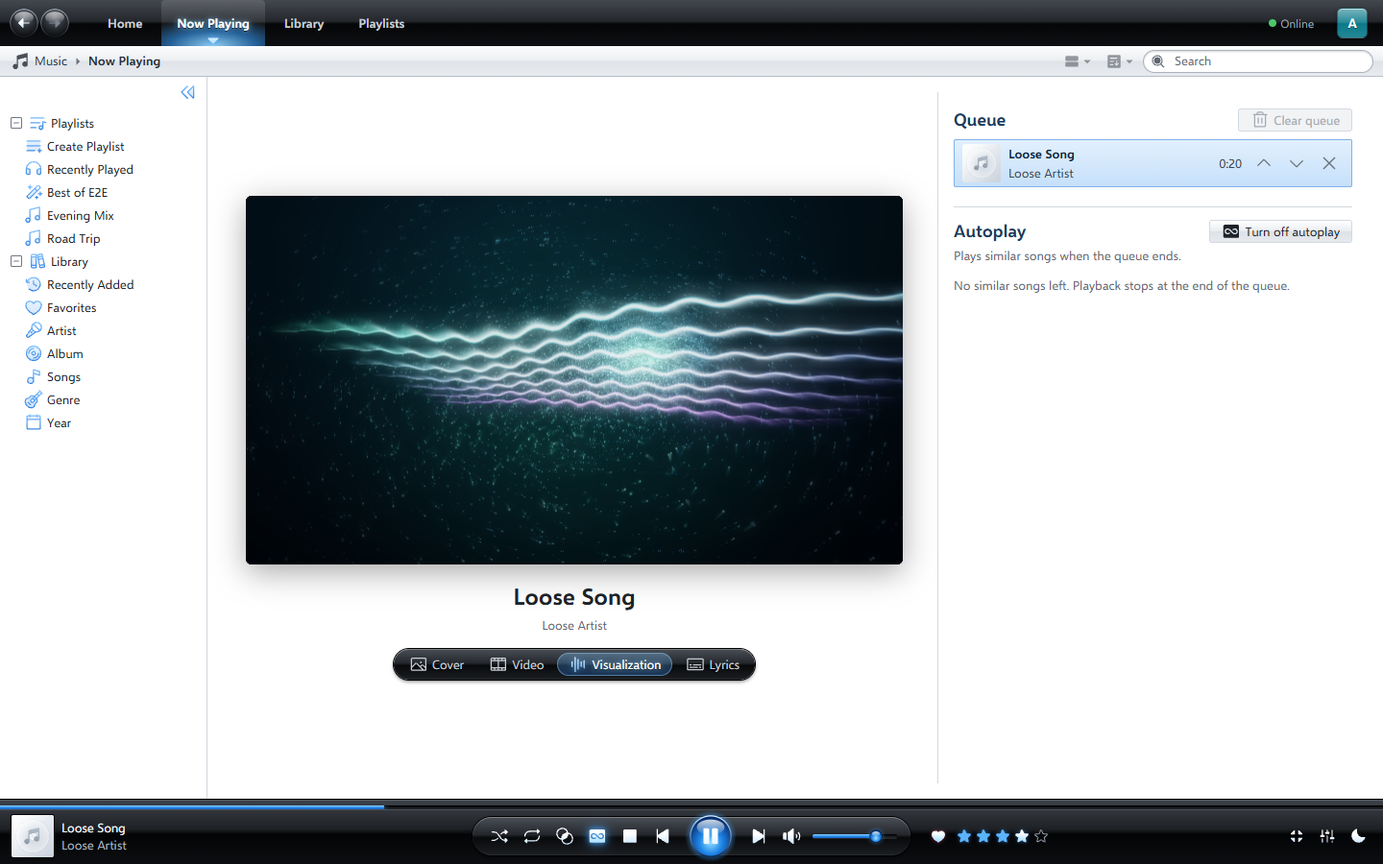
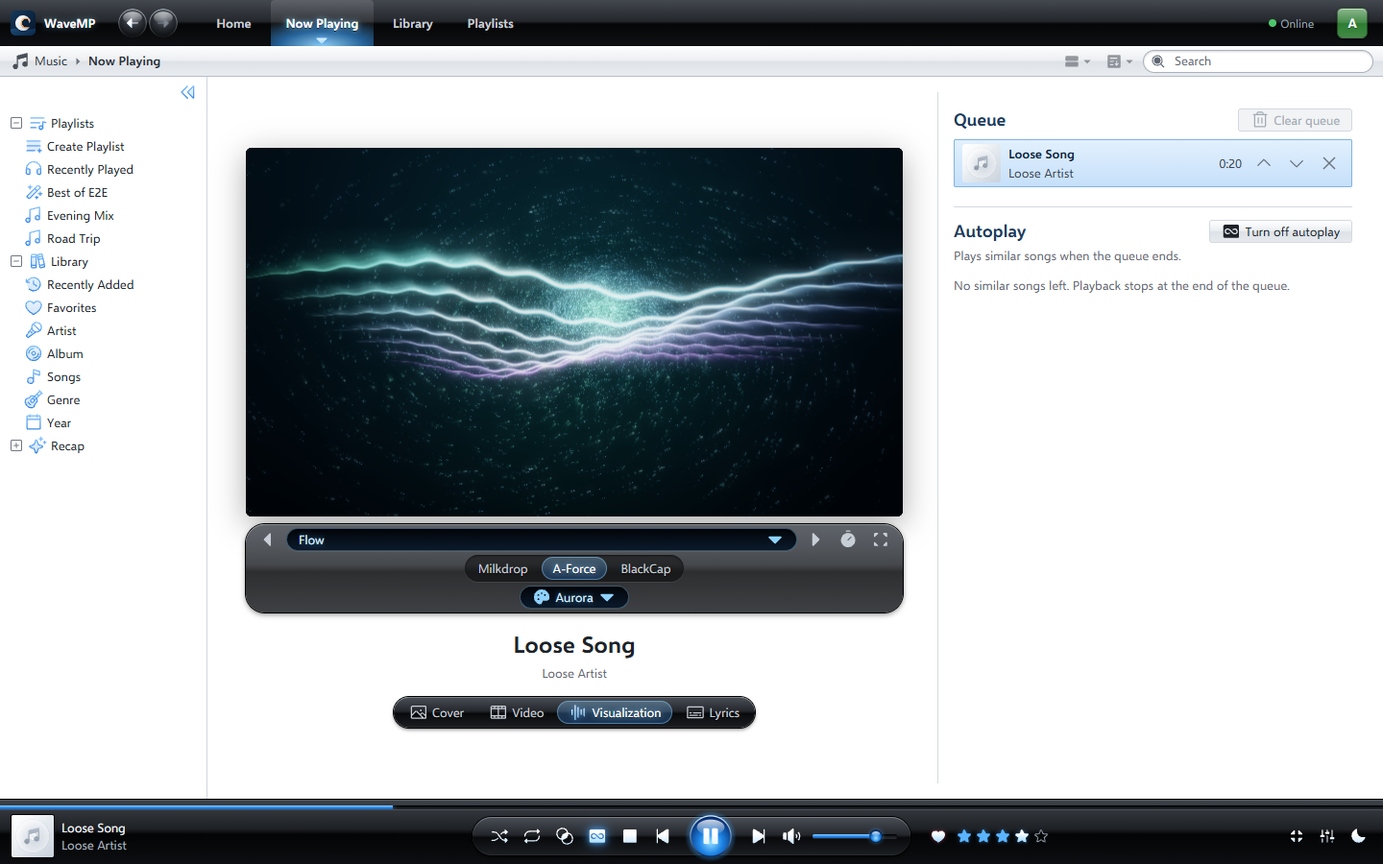
WMP-121: M8 describe the modes, color schemes and flash limiting of the visualizations
- README: the visualizations with their modes and color schemes, the
  migration of former BlackCap scenes, the Milkdrop speed and its pace and
  dimming by the music, the reduced intensity and reduced motion, and the
  flash limiting of all three visualizations; the BlackCap modes and
  color schemes in the API section.
- THEMING.md names the modes and color schemes of BlackCap.
- New README screenshots of A-Force, BlackCap (Orbit in Orchid) and
  Milkdrop.

Closes #89

Claude-Session: https://claude.ai/code/session_011yGJ1Ft1etjjoS6miNr7QW

diff --git a/tests/WaveMP.E2E/screenshots/readme.screenshots.ts b/tests/WaveMP.E2E/screenshots/readme.screenshots.ts
@@ -210,7 +210,7 @@ test('visualization A-Force', async ({ page, request }) => {
 })
 
 test('visualization BlackCap', async ({ page, request }) => {
-    await showVisualization(page, request, 'BlackCap', 'orchid')
+    await showVisualization(page, request, 'BlackCap', 'orbit', 'orchid')
     await save(page, 'visualization-blackcap')
 })
 

diff --git a/README.md b/README.md
@@ -34,7 +34,7 @@ WaveMP brings back the glossy, glassy look of the classic desktop media players 
 - **Keyboard shortcuts.** Play, pause, seek, skip, change the volume, shuffle, repeat, search and go full screen from the keyboard, like in a desktop player; **?** shows them all.
 - **Favorites and ratings.** Mark songs, albums and artists with a heart, rate songs with up to five stars and narrow the whole library down to your own music. The home page greets you with your playlists, the songs you played recently, new albums, your favorites and your top rated songs.
 - **Playlists.** Each profile builds its own playlists, sorted by drag and drop, with an own cover or a grid of the covers of their songs whose tiles change calmly one at a time, plus an automatic list of the songs played recently. Smart playlists fill themselves by rules (artist, album, genre, year, rating, favorites, plays, dates, length, audio or video), with ready-made templates such as four stars and more or never played.
-- **Visualizations.** Classic Milkdrop presets plus WaveMP's own styles, *A-Force* and *BlackCap*.
+- **Visualizations.** Classic Milkdrop presets plus WaveMP's own visualizations, *A-Force* and *BlackCap*, each with five modes and six color schemes, all reacting to bass, mids, highs, beats and quiet passages and guarded against flashing light.
 - **Lyrics.** Synchronized lyrics follow the music line by line or word by word, from `.lrc` files, from the tags of your files or, if you switch it on, downloaded from LRCLIB.
 - **Plays almost anything.** Formats your browser supports are streamed directly; everything else is transcoded on the fly with ffmpeg. Intel Quick Sync is supported for hardware acceleration.
 - **Casting.** Send the music, or the music video, to a Chromecast from Chrome and Edge or to an AirPlay device from Safari, while the queue and the controls stay in WaveMP.
@@ -55,7 +55,7 @@ WaveMP brings back the glossy, glassy look of the classic desktop media players 
 | ![Home with playlists, the songs played recently and new albums](assets/screenshots/home.png) | ![The visualization A-Force on Now Playing](assets/screenshots/visualization-a-force.png) |
 | **Home** with your playlists, the songs you played recently and new albums | **A-Force**, one of WaveMP's own visualizations |
 | ![The visualization BlackCap on Now Playing](assets/screenshots/visualization-blackcap.png) | ![A classic Milkdrop preset on Now Playing](assets/screenshots/visualization-milkdrop.png) |
-| **BlackCap**, the calm 3D visualization | Classic **Milkdrop** presets |
+| **BlackCap**, glassy 3D shapes that breathe with the music | Classic **Milkdrop** presets |
 | ![Now Playing with the cover, the queue and the songs of autoplay](assets/screenshots/now-playing.png) | ![The page of an album](assets/screenshots/album.png) |
 | **Now Playing** with cover, queue and **autoplay**, which keeps the music going with similar songs | An **album** with its songs |
 | ![The context menu of a song with the submenu for the rating](assets/screenshots/context-menu.png) | ![The rules of a smart playlist](assets/screenshots/smart-playlist.png) |
@@ -499,7 +499,7 @@ The core data of MusicBrainz is in the public domain (CC0). The covers in the Co
 16. **Mark favorites and rate songs.** The heart marks a song, an album or an artist as favorite of your profile: at the end of each song row, on the page of a song, album or artist, in the context menu of a song, album or artist (**Add to favorites**) and next to the current song in the transport bar. The stars, and **Rate** in the context menu of a song, rate a song with one to five stars; a click on the star of the current rating removes it. On the desktop, the empty hearts and stars of a row appear when you point at it; on smartphones the song lists show the heart only, the stars are on the page of the song and in the expanded player. **Library > Favorites** lists your favorite songs, albums and artists, newest first. **All music** and **My music** above the sections of the library switch between the whole library and your own music: rated and favorite songs, the songs of your favorite albums and artists and of your playlists.
 17. **Start at home.** **Home** shows rows of your playlists, the songs you played recently, the albums added recently, your favorites and your top rated songs. **Show all** opens the full list, **Play** plays the recently played or top rated songs. As long as there is nothing to show, it greets you with a welcome text. The WaveMP logo in the header leads back here from every page, on the desktop and on smartphones.
 18. **Watch music videos.** **Now Playing** shows the song in one of four views, which its buttons switch with a soft crossfade: **Cover**, **Video**, **Visualization** and **Lyrics** (see the next steps). The sound always comes from the song: the video plays muted and follows its position, so switching the view or leaving **Now Playing** never interrupts the music. **Video** can be chosen for songs with a video only; songs without one show their cover meanwhile. The view you choose is stored with your profile and applies on all devices. A double click on the video or its full screen button shows it in full screen. Around the video, also beside portrait videos and in full screen (except the full screen of the iPhone, which the system shows), the dark area glows softly in the colors of the current picture. This ambient light follows the video a few times per second, stands still while the video is paused and pauses while the video is not visible; with reduced motion in your system settings it is one calm color. Turn it off under **Settings > Ambient light around videos**; the choice is stored with your profile. Your browser plays the video file as it is if it can, otherwise the server transcodes it. If the music in a video starts earlier or later than in the song, admins set the offset in milliseconds under **Video sync** on the page of the song; a playing video takes it over at once. On a smartphone, the expanded player shows the same choice: tap the cover or the title to switch between **Cover**, **Video** and **Visualization** there, and swipe the player down (or use the arrow at the top left) to make it small again; a short, fast flick is enough. Titles and artists too long for their place scroll slowly after a few seconds, in the player and the mini player; with reduced motion they end with "..." instead.
-19. **Watch the music.** **Visualization** on **Now Playing** draws the music as it is heard. Its controls lie in a bar right below the picture, so nothing covers it, and keep their places on every device: on the left the previous preset, the preset list and the next preset, on the right the automatic change and full screen, and the choice between three visualizations, beside them on wide screens and in a row of its own on smartphones: **Milkdrop** with the classic Milkdrop presets (the preset pack of butterchurn), **A-Force**, WaveMP's own visualization of light in motion: the bass gives its shapes mass and speed, the mids make them sway and twist, the highs sparkle, a beat lands as a punch with a short afterglow, and quiet passages slow it down and dim it. Its presets are its modes, each with shapes and motion of its own: **Flow** (waveforms flowing into the depth through a tunnel of particles), **Rings** (rings of the spectrum around the middle that swell with the bass, ripple with the highs and send a ring of light outwards on a beat), **Warp** (streaks flying at you, faster with the bass and longer the louder it gets), **Ridges** (the spectrum of the last moments as a landscape you glide over) and **Helix** (two waveforms twisted into a helix that turns with the mids). Its colors are chosen apart from the mode with the color scheme button beside the visualization choice: Aurora, Nebula, Ember, Lagoon, Prism and Eclipse; a chosen color scheme stays when the mode changes, by hand or automatically. Modes and color schemes blend smoothly into each other, and **BlackCap**, WaveMP's own visualization with organic, floating 3D shapes and light effects that react calmly to the music: the shapes breathe with its tempo, swell gently on a beat, their curved surfaces sway with the spectrum and mirror soft lights; its presets are its scenes (Lumen, Tide, Orchid, Mercury, Halo and Dusk), which slowly morph into each other over a few seconds. The visualization starts with the first song you play. The preset list opens above its button on computers (type the first letters of a name to jump to it) and as a sheet from the bottom edge on smartphones, with the current preset marked. The full screen shows the picture alone; a double click or F switches to full screen as well, and Escape, a double click or F leave it. While the automatic change is on, a random preset follows every 30 seconds; **Settings > Change visualization presets** sets the interval from 10 seconds to 5 minutes or turns it off. **Settings > Visualization quality** sets how much detail the visualization draws: **Auto** (the default) starts with the most detail and lowers it while the device cannot draw about 60 frames per second, then raises it again after a while of smooth drawing; **Low**, **Medium** and **High** keep a level (A-Force draws fewer particles and waveforms at a lower resolution, BlackCap fewer and less finely curved shapes and fewer lights at a lower resolution, Milkdrop uses smaller textures). **Settings > Visualization intensity** calms the visualization: **Reduced** moves more gently, reacts less strongly, slows the Milkdrop presets down and changes the brightness more slowly; it is always used while your device asks for reduced motion. **Settings > Milkdrop speed** sets how fast the Milkdrop presets move, from 25 % to 100 % of their original speed (50 % by default). The speed is the same on every display, whatever its refresh rate, and Milkdrop presets blend into each other over a few seconds. Milkdrop and A-Force guard against flashing light for people who are sensitive to it: no larger area of the picture flashes more than three times a second, sudden brightness changes become short fades. The visualization, the preset or mode you choose, the color scheme, the automatic change, its interval, the quality, the intensity and the Milkdrop speed are stored with your profile. The visualization only draws while it is shown: on another view, another page or in a background tab it pauses. It needs WebGL 2 and Web Audio, which current browsers offer; on iPhones the browser offers no full screen for it.
+19. **Watch the music.** **Visualization** on **Now Playing** draws the music as it is heard. Its controls lie in a bar right below the picture, so nothing covers it, and keep their places on every device: on the left the previous preset, the preset list and the next preset, on the right the automatic change and full screen, and the choice between three visualizations, beside them on wide screens and in a row of its own on smartphones: **Milkdrop** with the classic Milkdrop presets (the preset pack of butterchurn), **A-Force**, WaveMP's own visualization of light in motion: the bass gives its shapes mass and speed, the mids make them sway and twist, the highs sparkle, a beat lands as a punch with a short afterglow, and quiet passages slow it down and dim it. Its presets are its modes, each with shapes and motion of its own: **Flow** (waveforms flowing into the depth through a tunnel of particles), **Rings** (rings of the spectrum around the middle that swell with the bass, ripple with the highs and send a ring of light outwards on a beat), **Warp** (streaks flying at you, faster with the bass and longer the louder it gets), **Ridges** (the spectrum of the last moments as a landscape you glide over) and **Helix** (two waveforms twisted into a helix that turns with the mids). Its colors are chosen apart from the mode with the color scheme button beside the visualization choice: Aurora, Nebula, Ember, Lagoon, Prism and Eclipse; a chosen color scheme stays when the mode changes, by hand or automatically. Modes and color schemes blend smoothly into each other, and **BlackCap**, WaveMP's own visualization with organic, floating 3D shapes of glass and light, calm but clearly alive: the shapes breathe with the tempo, the bass swells them from below, the mids twist them and light their edges, the highs ripple and glint at their tops, a beat lets them swell softly with a pulse of light, and in quiet passages they contract, slow down and dim. Its presets are its modes: **Drift** (one large shape breathing in the middle), **Orbit** (a shape with companions circling it, which move out with the loudness and the beats), **Cluster** (six smaller shapes that gather in quiet parts and drift apart when it gets loud), **Ribbon** (stretched, ring-like forms that the mids twist) and **Bloom** (spiralling petals that open with the loudness and close in quiet passages); the modes morph into each other over a few seconds. Its color schemes, chosen the same way as for A-Force, set colors and material: Lumen, Tide, Orchid, Mercury, Halo and Dusk. A profile that had chosen one of the former BlackCap scenes or A-Force styles keeps it as its color scheme. The visualization starts with the first song you play. The preset list opens above its button on computers (type the first letters of a name to jump to it) and as a sheet from the bottom edge on smartphones, with the current preset marked. The full screen shows the picture alone; a double click or F switches to full screen as well, and Escape, a double click or F leave it. While the automatic change is on, a random preset follows every 30 seconds; **Settings > Change visualization presets** sets the interval from 10 seconds to 5 minutes or turns it off. **Settings > Visualization quality** sets how much detail the visualization draws: **Auto** (the default) starts with the most detail and lowers it while the device cannot draw about 60 frames per second, then raises it again after a while of smooth drawing; **Low**, **Medium** and **High** keep a level (A-Force draws fewer particles and waveforms at a lower resolution, BlackCap fewer and less finely curved shapes and fewer lights at a lower resolution, Milkdrop uses smaller textures). **Settings > Visualization intensity** calms the visualization: **Reduced** moves more gently, reacts less strongly, slows the Milkdrop presets down and changes the brightness more slowly; it is always used while your device asks for reduced motion. **Settings > Milkdrop speed** sets how fast the Milkdrop presets move, from 25 % to 100 % of their original speed (50 % by default). The speed is the same on every display, whatever its refresh rate, and Milkdrop presets blend into each other over a few seconds. Besides reacting to the music on their own, the Milkdrop presets slow down and dim in quiet passages and push ahead for a moment on a beat. All three visualizations guard against flashing light for people who are sensitive to it: no larger area of the picture flashes more than three times a second (the limit for general and red flashes of the accessibility guidelines), sudden brightness changes become short fades, also while presets, modes or color schemes change quickly. The visualization, the preset or mode you choose, the color scheme, the automatic change, its interval, the quality, the intensity and the Milkdrop speed are stored with your profile. The visualization only draws while it is shown: on another view, another page or in a background tab it pauses. It needs WebGL 2 and Web Audio, which current browsers offer; on iPhones the browser offers no full screen for it.
 20. **Sing along.** **Lyrics** on **Now Playing** shows the lyrics of the song (see [Lyrics](#organizing-your-media)); it can be chosen for songs with lyrics only, songs without them show their cover meanwhile. Synchronized lyrics follow the music: the current line is large and bright in the middle, the others are dimmed, and with a time per word the current word fills while it is sung. A click or tap on a line jumps there. If you scroll yourself, the lyrics follow the music again after a few seconds. Lyrics without times scroll calmly over the song. With reduced motion switched on in your system, the lyrics jump instead of scrolling and lyrics without times stay where you leave them. As admin you see the lyrics of a song on its page under **Lyrics**: where they come from and whether they are synchronized; **Download lyrics** looks them up on LRCLIB at once, while the download is switched on and the song has no `.lrc` file.
 21. **Shape the sound.** The equalizer button in the transport bar (in the expanded player on smartphones) opens the **Equalizer** below **Now Playing**: switch it on, choose a preset (Flat, Rock, Pop, Jazz, Classical, Dance, Bass, Treble, Vocal) or move the ten bands from 31 Hz to 16 kHz and the preamp, by mouse, finger or arrow keys. Moving a band turns the preset into your own curve (**Custom**), which is kept when you try another preset; **Reset** goes back to Flat. The equalizer applies at once, is stored with your profile and applies on all devices; **Settings** switches it on and off as well.
 22. **Crossfade.** Under **Settings**, **Crossfade** lets one song fade into the next for up to twelve seconds when the queue moves on by itself. Off plays the songs without gaps. The crossfade button in the transport bar, between repeat and stop (in the expanded player on smartphones), switches the crossfade on and off with one click and shows whether it is on; it keeps the length set under **Settings** (five seconds until you choose one). Like the setting, the switch is stored with your profile and applies on all devices. **Do not crossfade songs of the same album** (on by default) keeps live and concept albums gapless. Equalizer and crossfade need Web Audio, which current browsers offer; without it, WaveMP plays without them.
@@ -767,7 +767,7 @@ Every profile manages its own playlists under `/api/v1/me/playlists`: `GET` list
 
 Every profile keeps its own favorites and ratings. `PUT /api/v1/me/favorites/{tracks|albums|artists}/{id}` marks a track, album or artist as favorite and `DELETE` removes it (both `204` and idempotent; marking an unknown item gets `404` with `track.not_found`, `album.not_found` or `artist.not_found`); `GET /api/v1/me/favorites` lists them, newest first, optionally only one `type` (`Track`, `Album` or `Artist`). `PUT /api/v1/tracks/{id}/rating` with `{ "rating": 4 }` rates a track with 1 to 5 stars, `0` removes the rating. Tracks carry `isFavorite` and `rating` of the current profile, albums and artists `isFavorite`, in every list and detail. `myMusic=true` limits the lists of tracks, albums, artists, genres and years to the music of the profile (rated or favorite tracks, the tracks of favorite albums and artists and the tracks of its playlists) and combines with all other filters; tracks sort by `Rating` (most stars first, unrated last). `GET /api/v1/me/home` returns the rows of the home page in one call: the own playlists, recently played tracks, recently added albums, favorites and top rated tracks, each the first page with up to `limit` items (1 to 50, default 20).
 
-`GET /api/v1/tracks/{id}/playback` with the `audioFormats` the client plays decides how it plays a track: `DirectPlay` with `protocol` `File` and a signed `streamUrl` of the audio file (`/api/v1/tracks/{id}/stream`, with Range requests), or `Transcode` with a `transcodeReason` and, while transcoding is available, `protocol` `Hls` with a signed `streamUrl` of an HLS master playlist; without transcoding the `streamUrl` is missing. `GET /api/v1/tracks/{id}/video/playback` does the same for the video with the `videoContainers`, `videoCodecs` and `audioCodecs` the client plays (none sent means HLS); `GET /api/v1/tracks/{id}/video` streams the video file with Range requests. A track without audio or video gets `404` with `track.no_audio` or `track.no_video`. The video playback also names the `offsetMilliseconds` of the video against the audio (positive if the music in the video starts later); clients play the video at the position of the audio plus this offset. Admins read and set it with `GET` and `PUT /api/v1/tracks/{id}/video/offset` (`{ "offsetMilliseconds": 1500 }`, from -600000 to 600000; `400` with `out_of_range` outside, `404` with `track.not_found` or `track.no_video`); a scan keeps it. The view of the Now Playing stage is a setting of the profile: `playerViewMode` (`Cover`, `Video`, `Visualization` or `Lyrics`, default `Video`) in `GET` and `PATCH /api/v1/me/settings`. The group `visualization` of the same settings holds the `module` (`Milkdrop`, `AForce` or `BlackCap`), the `preset` the profile chose last (its name, up to 200 characters; `null` lets the player pick one, an empty string in a `PATCH` forgets it, another module forgets it as well), `autoChange` (default `true`) and `autoChangeSeconds` (5 to 600, default 30; `400` with `out_of_range` outside) the `quality` (`Auto`, `Low`, `Medium` or `High`, default `Auto`; Auto lets the player choose the level by the frame rate of the device), the `colorScheme` of A-Force and BlackCap, chosen separately from the preset (its id, up to 64 characters; `null` shows the first color scheme of the module, an empty string in a `PATCH` forgets it, another module forgets it as well), the `intensity` (`Normal` or `Reduced`, default `Normal`; players also use `Reduced` while the device asks for reduced motion) and the `milkdropSpeed` (10 to 100 percent of the original speed of the Milkdrop presets, default 50; `400` with `out_of_range` outside). The presets themselves belong to the clients: the web app draws the Milkdrop presets of butterchurn, the presets of A-Force are its modes (`flow`, `rings`, `warp`, `ridges`, `helix`) and its color schemes `aurora`, `nebula`, `ember`, `lagoon`, `prism` and `eclipse`, the presets of BlackCap its scenes (`lumen`, `tide`, `orchid`, `mercury`, `halo`, `dusk`). The master playlist (`/api/v1/tracks/{id}/hls/master.m3u8`, with `media=Audio` or `media=Video`) names one variant; its media playlist (`/hls/{media}/{variant}/main.m3u8`) lists the segments of the whole track (MPEG-TS, 6 seconds each), and `/hls/{media}/{variant}/segments/{index}` delivers them. Segments are transcoded when they are asked for, a jump starts the transcode at the segment asked for, and finished segments come from the cache. All media addresses are signed (query `uid`, `sid`, `exp` and `sig`, bound to the track and the profile), and the playlists hand their signature on to the addresses they contain. While all transcodes are busy or a segment is not ready in time, the server answers `503` with `Retry-After` (`transcode.busy`, `transcode.timeout`); further errors are `transcode.unavailable` (`503`), `transcode.failed` (`500`), `transcode.variant_outdated` and `transcode.segment_not_found` (`404`). Admins read the state with `GET /api/v1/transcoding/status` (ffmpeg, cache, hardware acceleration, running and allowed transcodes), list the running transcodes with `GET /api/v1/transcoding/jobs` and stop one with `DELETE /api/v1/transcoding/jobs/{jobId}` (`204`, or `404` with `transcode.job_not_found`). The settings are read and changed with `GET` and `PATCH /api/v1/settings/transcoding`: `hardwareAcceleration` (`Auto` or `Off`), `maxParallelJobs` (1 to 8, default 2), `maxVideoHeight` (480, 720, 1080, 1440 or 2160, default 1080) and `audioBitrateKbps` (128, 160, 192, 256 or 320, default 256).
+`GET /api/v1/tracks/{id}/playback` with the `audioFormats` the client plays decides how it plays a track: `DirectPlay` with `protocol` `File` and a signed `streamUrl` of the audio file (`/api/v1/tracks/{id}/stream`, with Range requests), or `Transcode` with a `transcodeReason` and, while transcoding is available, `protocol` `Hls` with a signed `streamUrl` of an HLS master playlist; without transcoding the `streamUrl` is missing. `GET /api/v1/tracks/{id}/video/playback` does the same for the video with the `videoContainers`, `videoCodecs` and `audioCodecs` the client plays (none sent means HLS); `GET /api/v1/tracks/{id}/video` streams the video file with Range requests. A track without audio or video gets `404` with `track.no_audio` or `track.no_video`. The video playback also names the `offsetMilliseconds` of the video against the audio (positive if the music in the video starts later); clients play the video at the position of the audio plus this offset. Admins read and set it with `GET` and `PUT /api/v1/tracks/{id}/video/offset` (`{ "offsetMilliseconds": 1500 }`, from -600000 to 600000; `400` with `out_of_range` outside, `404` with `track.not_found` or `track.no_video`); a scan keeps it. The view of the Now Playing stage is a setting of the profile: `playerViewMode` (`Cover`, `Video`, `Visualization` or `Lyrics`, default `Video`) in `GET` and `PATCH /api/v1/me/settings`. The group `visualization` of the same settings holds the `module` (`Milkdrop`, `AForce` or `BlackCap`), the `preset` the profile chose last (its name, up to 200 characters; `null` lets the player pick one, an empty string in a `PATCH` forgets it, another module forgets it as well), `autoChange` (default `true`) and `autoChangeSeconds` (5 to 600, default 30; `400` with `out_of_range` outside) the `quality` (`Auto`, `Low`, `Medium` or `High`, default `Auto`; Auto lets the player choose the level by the frame rate of the device), the `colorScheme` of A-Force and BlackCap, chosen separately from the preset (its id, up to 64 characters; `null` shows the first color scheme of the module, an empty string in a `PATCH` forgets it, another module forgets it as well), the `intensity` (`Normal` or `Reduced`, default `Normal`; players also use `Reduced` while the device asks for reduced motion) and the `milkdropSpeed` (10 to 100 percent of the original speed of the Milkdrop presets, default 50; `400` with `out_of_range` outside). The presets themselves belong to the clients: the web app draws the Milkdrop presets of butterchurn, the presets of A-Force are its modes (`flow`, `rings`, `warp`, `ridges`, `helix`) and its color schemes `aurora`, `nebula`, `ember`, `lagoon`, `prism` and `eclipse`, the presets of BlackCap are its modes (`drift`, `orbit`, `cluster`, `ribbon`, `bloom`) and its color schemes `lumen`, `tide`, `orchid`, `mercury`, `halo` and `dusk`. The master playlist (`/api/v1/tracks/{id}/hls/master.m3u8`, with `media=Audio` or `media=Video`) names one variant; its media playlist (`/hls/{media}/{variant}/main.m3u8`) lists the segments of the whole track (MPEG-TS, 6 seconds each), and `/hls/{media}/{variant}/segments/{index}` delivers them. Segments are transcoded when they are asked for, a jump starts the transcode at the segment asked for, and finished segments come from the cache. All media addresses are signed (query `uid`, `sid`, `exp` and `sig`, bound to the track and the profile), and the playlists hand their signature on to the addresses they contain. While all transcodes are busy or a segment is not ready in time, the server answers `503` with `Retry-After` (`transcode.busy`, `transcode.timeout`); further errors are `transcode.unavailable` (`503`), `transcode.failed` (`500`), `transcode.variant_outdated` and `transcode.segment_not_found` (`404`). Admins read the state with `GET /api/v1/transcoding/status` (ffmpeg, cache, hardware acceleration, running and allowed transcodes), list the running transcodes with `GET /api/v1/transcoding/jobs` and stop one with `DELETE /api/v1/transcoding/jobs/{jobId}` (`204`, or `404` with `transcode.job_not_found`). The settings are read and changed with `GET` and `PATCH /api/v1/settings/transcoding`: `hardwareAcceleration` (`Auto` or `Off`), `maxParallelJobs` (1 to 8, default 2), `maxVideoHeight` (480, 720, 1080, 1440 or 2160, default 1080) and `audioBitrateKbps` (128, 160, 192, 256 or 320, default 256).
 
 Admins edit the metadata of a track with `GET` and `PATCH /api/v1/tracks/{id}/metadata`. `GET` returns the values the editor shows (the tags of the audio file, completed from the library), its `status` (`Editable`, `NoAudio` or `NotWritable`) and the `audioFilePath` it writes. `PATCH` writes `title`, `artist`, `album`, `albumArtist`, `year`, `trackNumber`, `discNumber` and `genre` into the tags of the audio file the track plays: members that are missing stay unchanged, `null` or an empty text removes the value. The previous tags are saved in the database first, and the answer holds the values after the track was read again. A track with a video only gets `409` (`track.no_audio`), an audio file that cannot be written `409` (`track.not_writable`).
 

diff --git a/THEMING.md b/THEMING.md
@@ -179,7 +179,7 @@ The color changes with the song; a theme can let it fade with `transition` on th
 | `lyrics-line` | `li` (`data-index`, `data-empty`, `aria-current`) | `lyrics-lines` | A line of the lyrics: in synchronized lyrics a `lyrics-line-button`, in static lyrics a `label`. `data-index` is its index, `data-empty="true"` marks a part without singing (no text). In synchronized lyrics the state tells whether it was sung (`past`), is sung (`active`, also `aria-current`) or comes later (`upcoming`); the active line carries `--wmp-line-progress`. The base shows the active line larger and bright, the others dimmed |
 | `lyrics-line-button` | `button` | `lyrics-line` | Seeks to the start of the line on click or tap; holds the line as `label`, or one `lyrics-word` per word for lines with word timestamps. An empty line has an `aria-label` |
 | `lyrics-word` | `span` | `lyrics-line-button` | A word or syllable of a line with word timestamps, with its spaces. Its state is `past`, `active` or `upcoming`; within lines that are not active it has the state of its line. The active word carries `--wmp-word-progress`, with which the base fills it from the start to the end while it is sung |
-| `visualization` | `div` (`data-module`, `data-quality`, `data-intensity`) | `stage-view` | The visualization of the music, drawn by a module (`data-module`: `milkdrop` with Milkdrop presets, `aforce`, the own visualization A-Force with its modes as presets and color schemes, or `blackcap`, the own visualization BlackCap with its scenes as presets) in sync with what is heard, at a quality level (`data-quality` while it draws or pauses) and an intensity (`data-intensity`); a flash guard keeps every module below three flashes a second: `visualization-canvas` and `visualization-message` until it draws; nothing lies on the picture, its controls are `visualization-controls` below the `stage-views`. Its state (see [States](#states)) tells whether it loads, waits for the music, draws or pauses; nothing is drawn while the view is hidden, the page is in the background or the stage is out of the viewport. Shown in full screen as a whole, without controls (`fullscreen`; with `btn-fullscreen`, a double click, the key F or the context menu of the stage, only while the visualization view is shown; Escape, a double click or F leave it) |
+| `visualization` | `div` (`data-module`, `data-quality`, `data-intensity`) | `stage-view` | The visualization of the music, drawn by a module (`data-module`: `milkdrop` with Milkdrop presets, `aforce`, the own visualization A-Force with its modes as presets and color schemes, or `blackcap`, the own visualization BlackCap with its modes as presets and color schemes) in sync with what is heard, at a quality level (`data-quality` while it draws or pauses) and an intensity (`data-intensity`); a flash guard keeps every module below three flashes a second: `visualization-canvas` and `visualization-message` until it draws; nothing lies on the picture, its controls are `visualization-controls` below the `stage-views`. Its state (see [States](#states)) tells whether it loads, waits for the music, draws or pauses; nothing is drawn while the view is hidden, the page is in the background or the stage is out of the viewport. Shown in full screen as a whole, without controls (`fullscreen`; with `btn-fullscreen`, a double click, the key F or the context menu of the stage, only while the visualization view is shown; Escape, a double click or F leave it) |
 | `visualization-canvas` | `canvas` (`aria-hidden`) | `visualization` | The drawing of the module; the base lays it over the whole `visualization` and hides it until the module draws. A new canvas element may replace it while the visualization runs |
 | `visualization-message` | `p` (`role="status"`) | `visualization` | Hint while the visualization does not draw, with an `icon` (`view-visualization`) and a `label`: while it loads, waits for the music (the player has no output before its first song), cannot be shown by the browser or failed; the state of `visualization` tells which |
 | `visualization-controls` | `div` (`role="group"`) | `stage` | Controls of the visualization, a toolbar right below the `stage-views` while the visualization view is shown, so they never cover the picture: `btn-preset-previous`, `btn-preset-picker`, `btn-preset-next`, `btn-auto-change`, `btn-fullscreen`, `btn-color-scheme-picker` (only for modules with color schemes), the `segmented-control` `visualization-module` (the `segment`s `milkdrop`, `aforce` and `blackcap`; the choice is kept per profile and starts the visualization again with the other module); the `context-menu`s of the presets (`data-kind="visualization-presets"`) and of the color schemes (`data-kind="visualization-color-schemes"`) follow it in the `stage`, outside the toolbar, so they inherit nothing from it. States `loading` until the presets of the module are loaded, then `ready`; additionally `has-color-schemes` while the module offers color schemes. The base lays it out as a grid with named areas (`previous`, `picker`, `next`, `auto-change`, `fullscreen`, `scheme`, `module`) as wide as the `stage-views`: on a stage narrower than `44rem` the buttons share the first row (the picker takes the free width) and the module choice is centered in a second row, with `has-color-schemes` `btn-color-scheme-picker` (at most `12rem` wide) centered in a third row; from `44rem` on everything is one row, the picker at most `18rem` wide, then `btn-color-scheme-picker`, the module choice and `btn-auto-change` and `btn-fullscreen`. The buttons keep their places whatever the preset is called. The base pulls it closer to the `stage-views` than the other parts of the `stage` (a negative top margin) |
